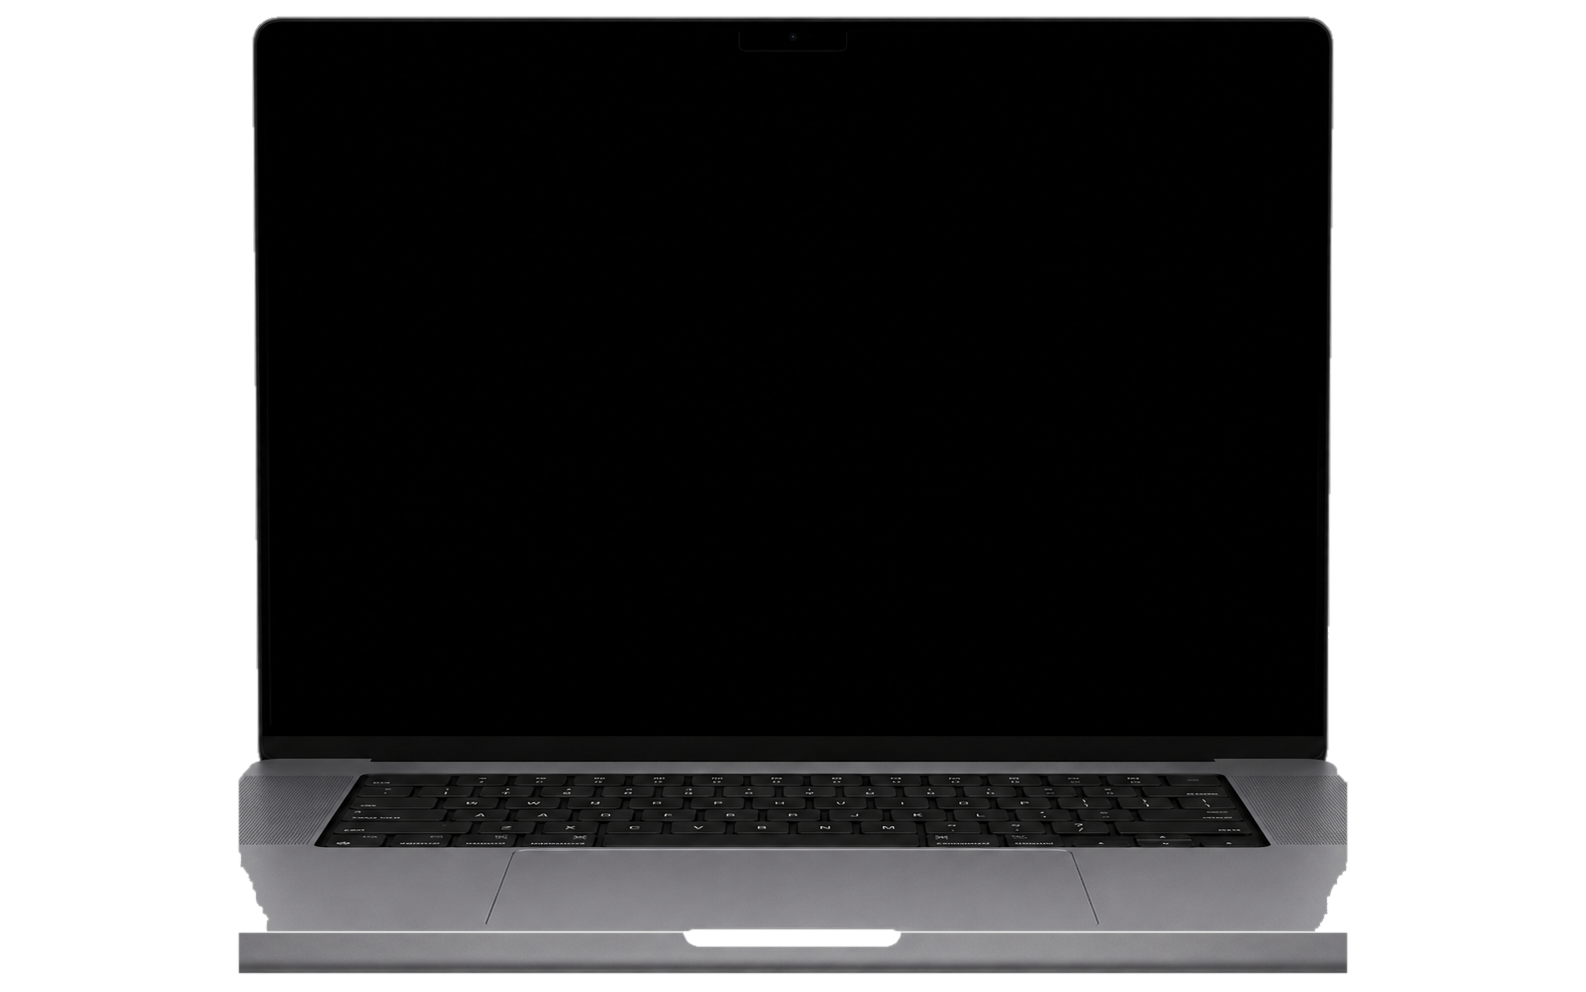
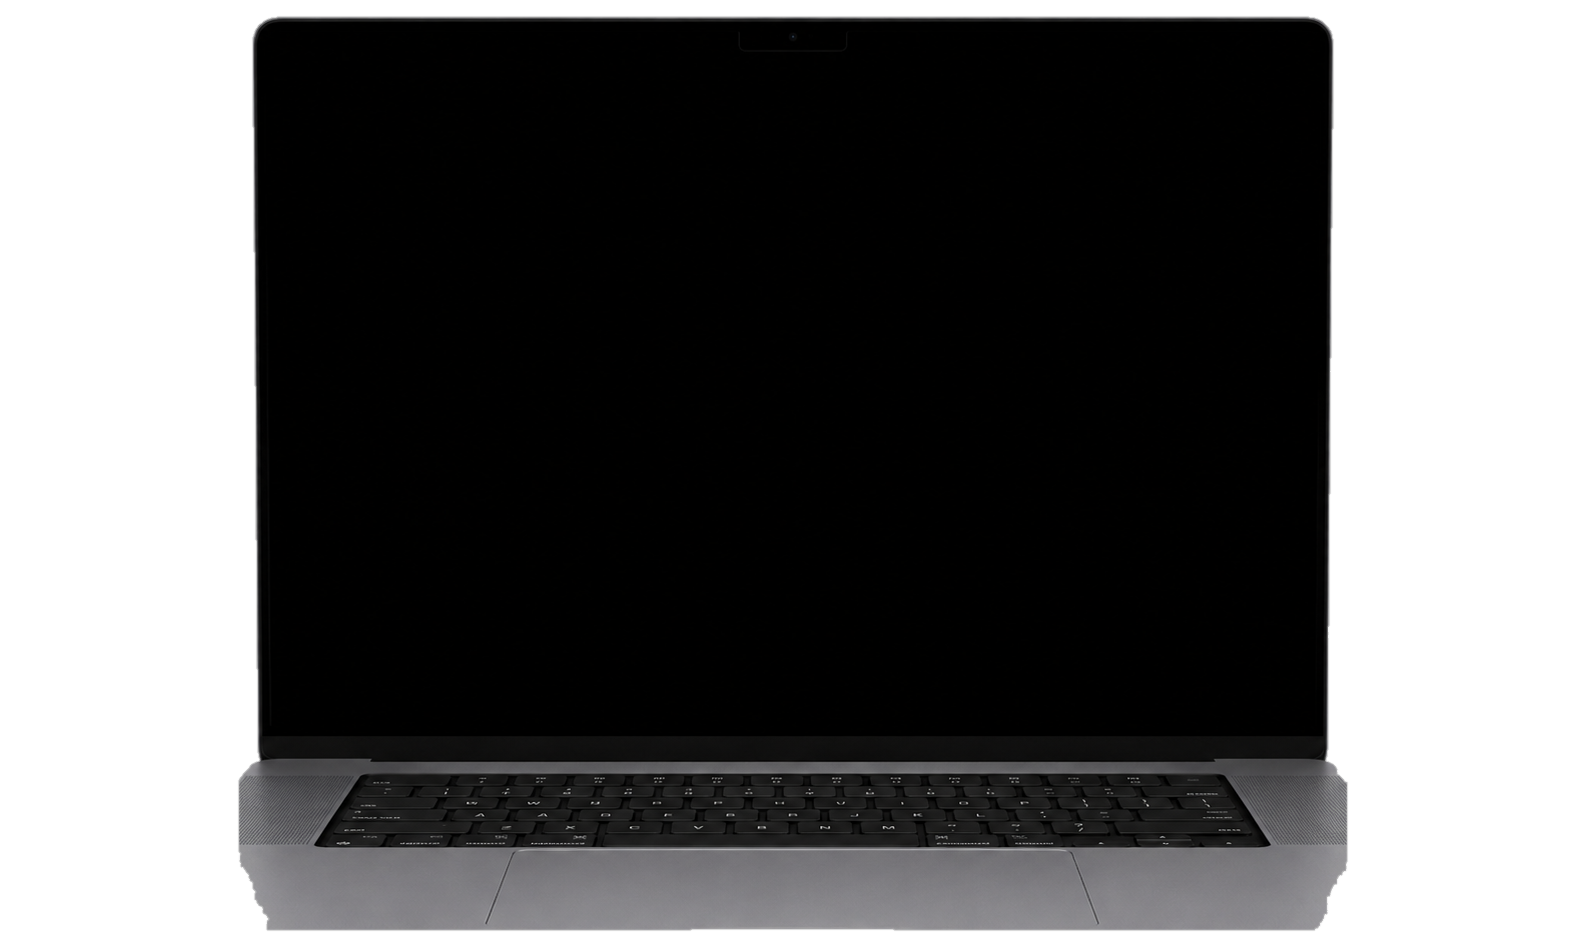
fix(demo-studio): fjern MacBook-base-slab + beskjær canvas
Mac-rammen hadde en grå "hylle"/slab nederst (y933-972, bredere enn
selve laptopen, stakk ut ~30px på hver side) — en innbakt skygge/
refleksjon rendret som solid flate. Den fikk laptopen til å se ut som
den sto på et brett. Fjernet slaben (y>=930), renset palmrest-frynse,
og beskar canvas 992 -> 933 så enheten bunn-justeres riktig i trioen.
Skjerm-rekt-spec oppdatert i begge deviceFrames.ts.

Changed region(s): [[0.1236, 0.746, 0.8651, 1.0], [0.1545, 0.0, 0.8342, 0.0311]]

diff --git a/apps/resolve-script-manager/src/components/demo-studio/deviceFrames.ts b/apps/resolve-script-manager/src/components/demo-studio/deviceFrames.ts
@@ -24,7 +24,7 @@ export interface FrameSpec {
 // Verdier fra piksel-deteksjon (deviceFrames i frontend):
 //   iphone  1086x1448  screen 248,85 588x1275
 //   ipad    1086x1448  screen 131,112 823x1222
-//   macbook 1586x992   screen 261,39 1064x698
+//   macbook 1586x933   screen 261,39 1064x698  (base beskåret: slab fjernet)
 export const DEVICE_FRAMES: Record<FrameVariant, FrameSpec> = {
   iphone: {
     src: iphoneFrame, aspect: 1086 / 1448,
@@ -37,8 +37,8 @@ export const DEVICE_FRAMES: Record<FrameVariant, FrameSpec> = {
     radius: 20 / 1086,
   },
   macbook: {
-    src: macbookFrame, aspect: 1586 / 992,
-    screen: { x: 261 / 1586, y: 39 / 992, w: 1064 / 1586, h: 698 / 992 },
+    src: macbookFrame, aspect: 1586 / 933,
+    screen: { x: 261 / 1586, y: 39 / 933, w: 1064 / 1586, h: 698 / 933 },
     radius: 6 / 1586,
   },
 };

diff --git a/frontend/client/src/components/role-room/post-agent/mockup-video/deviceFrames.ts b/frontend/client/src/components/role-room/post-agent/mockup-video/deviceFrames.ts
@@ -34,7 +34,7 @@ import macbookFrame from './frames/macbook.png';
 export const DEVICE_FRAMES: Record<DeviceVariant, FrameSpec> = {
   iphone: { src: iphoneFrame, frameW: 1086, frameH: 1448, sx: 248, sy: 85, sw: 588, sh: 1275, screenRadius: 56 },
   ipad: { src: ipadFrame, frameW: 1086, frameH: 1448, sx: 131, sy: 112, sw: 823, sh: 1222, screenRadius: 20 },
-  macbook: { src: macbookFrame, frameW: 1586, frameH: 992, sx: 261, sy: 39, sw: 1064, sh: 698, screenRadius: 6 },
+  macbook: { src: macbookFrame, frameW: 1586, frameH: 933, sx: 261, sy: 39, sw: 1064, sh: 698, screenRadius: 6 },
 };
 
 /** Forholdstall (bredde/høyde) for hele frame-PNG-en. */
